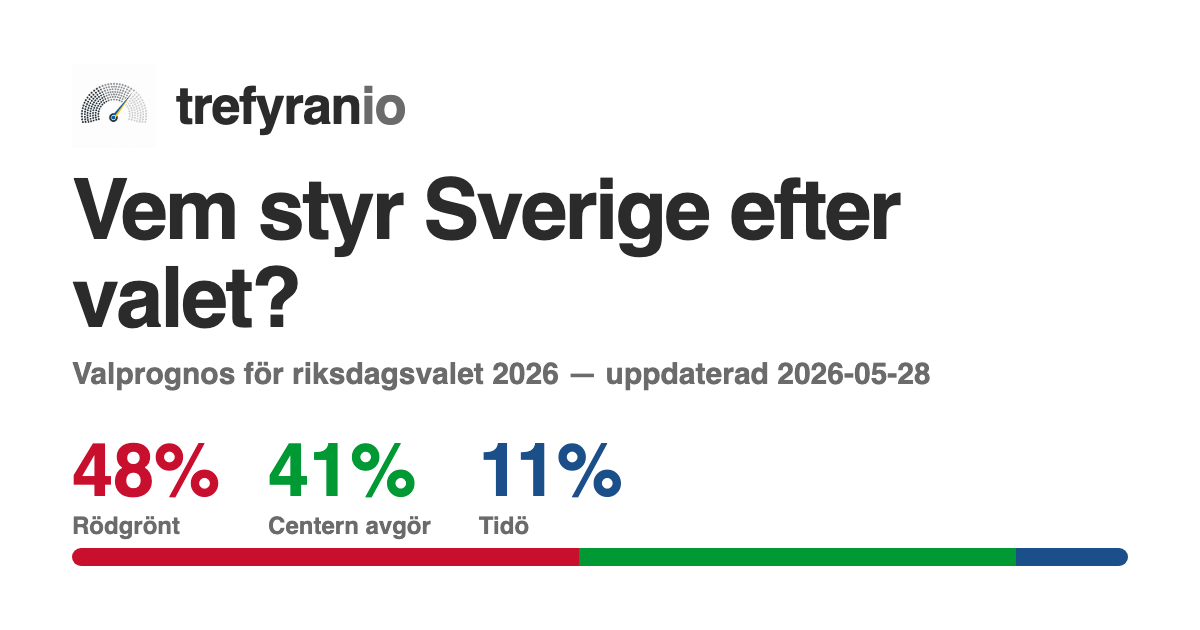
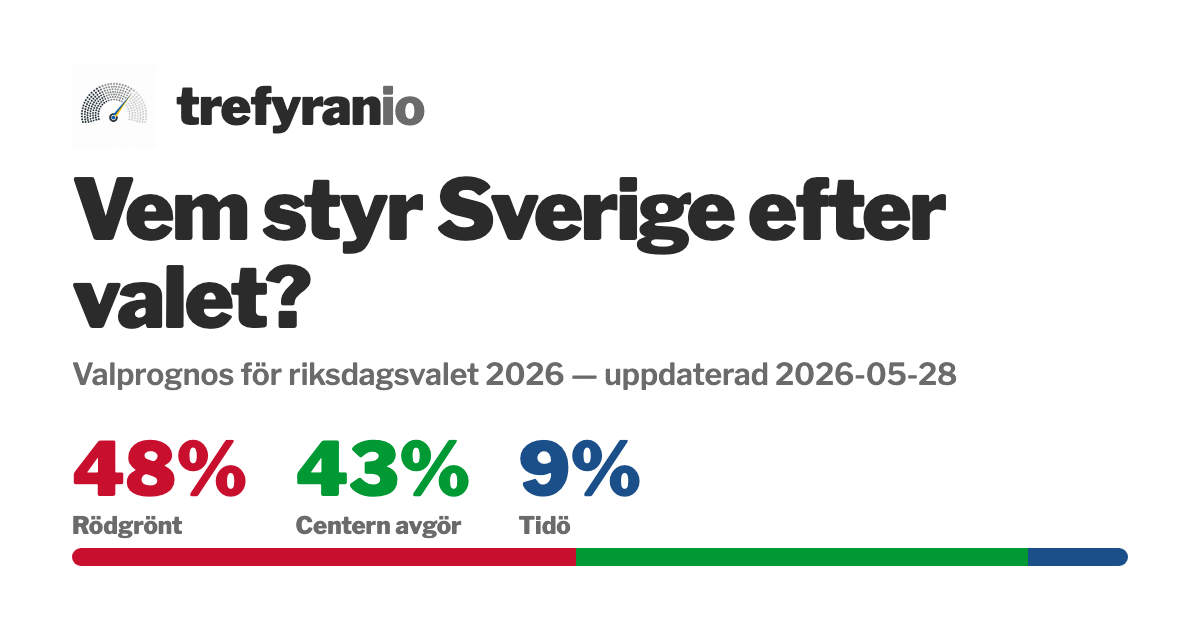
Phase 3: 6-cycle A/B → keep 4-cycle sigma, estimate MISS_RHO from data (0.12)
Tested whether adding the two pre-2010 cycles (2002, 2006) improves calibration.
backtest.py gains EARLY_YEARS, a year-parameterized calibration, calibrate_rho
(bloc-total coverage), and an `ab` command running three arms, each EVALUATED on
the 2010+ cycles (the regime the 2026 forecast lives in).

Findings:
- sigma: REJECT the 6-cycle curve. The pre-2010 cycles had bigger misses (thinner
  polling, SD's emergence), inflating sigma (floor 1.55->1.85pp, sigma(14)
  1.80->1.95pp) and OVER-covering the 2010+ regime (91% vs the 85% target). A
  regime mismatch — so sigma stays calibrated on the current party system (4-cycle).
- MISS_RHO: now ESTIMATED FROM DATA at 0.12 (was an assumed 0.2). iid under-covers
  bloc totals (75-83%); rho≈0.12 reaches 85%, consistent across the 4- and 6-cycle
  backtests. Live effect: P(Tido maj) 11%->9% (less bloc co-movement → thinner
  right-bloc tail); per-party marginals unchanged (rho moves only the joint).
- FP=L and SD-as-own-category turned out already handled in the data spine, so no
  special pre-2010 munging was needed.

Re-simulated + deployed (no refit — rho applies at projection time). README
"Uncertainty model" + Phase-5 roadmap document the A/B and the regime-mismatch call.

diff --git a/src/trefyranio/backtest.py b/src/trefyranio/backtest.py
@@ -51,12 +51,17 @@ from trefyranio.model import (
 )
 
 BACKTEST_YEARS = [2010, 2014, 2018, 2022]   # current party system, dense polling
+EARLY_YEARS = [2002, 2006]                  # pre-SD-in-riksdag; Phase-3 A/B only
+ALL_YEARS = EARLY_YEARS + BACKTEST_YEARS
 HORIZONS = [0, 14]                          # election-eve and the live ~14w gap
 BT_DIR = PROCESSED_DIR / "backtests"
 N_PARTIES = 8                   # the eight Riksdag parties (exclude Övr)
 Z80 = 1.2816                    # 10–90% half-width in sd units
 H_FAR = 14                      # live-forecast horizon (weeks from last poll)
 COVERAGE_TARGET = 0.85          # mildly conservative interval coverage
+# Blocs for the within-bloc miss-correlation estimate (mirror model._MISS_GROUP
+# and simulate's blocs). Only the multi-party blocs identify rho.
+_RHO_BLOCS = {"RIGHT": ["M", "SD", "KD", "L"], "LEFT": ["S", "V", "MP"]}
 
 
 def actual_shares(results: pd.DataFrame, year: int) -> np.ndarray:
@@ -69,13 +74,14 @@ def _path(year: int, H: int):
     return BT_DIR / f"conv_{year}_h{H}.npz"
 
 
-def fit_all(warmup: int = 500, samples: int = 500, force: bool = False) -> None:
+def fit_all(warmup: int = 500, samples: int = 500, force: bool = False,
+            years: list[int] = BACKTEST_YEARS) -> None:
     """Refit each cycle at each horizon with the converged model; cache to disk.
     Skips files that already exist unless ``force``."""
     polls = pd.read_parquet(PROCESSED_DIR / "polls.parquet")
     results = pd.read_parquet(PROCESSED_DIR / "results_national.parquet")
     BT_DIR.mkdir(parents=True, exist_ok=True)
-    for year in BACKTEST_YEARS:
+    for year in years:
         cycle = cycle_for(year)
         for H in HORIZONS:
             out = _path(year, H)
@@ -126,11 +132,12 @@ def _project(d, H: int, sigma: float, floor_pq: float, rho: float):
 
 
 def _coverage(H: int, sigma: float, floor_pq: float, rho: float,
+              years: list[int] = BACKTEST_YEARS,
               parties=range(N_PARTIES), lo_hi=(10, 90)) -> float:
     """Pooled 80%-interval coverage of the projected shares vs actual, over the
     given parties × cycles at horizon H."""
     inside = total = 0
-    for year in BACKTEST_YEARS:
+    for year in years:
         d = _load(year, H)
         sh = _project(d, H, sigma, floor_pq, rho)
         lo, hi = np.percentile(sh, lo_hi, axis=0)
@@ -140,20 +147,49 @@ def _coverage(H: int, sigma: float, floor_pq: float, rho: float,
     return inside / total if total else float("nan")
 
 
-def calibrate_forward(rho: float = MISS_RHO, floor_pq: float = FWD_FLOOR_PQ) -> dict:
+def calibrate_forward(years: list[int] = BACKTEST_YEARS,
+                      rho: float = MISS_RHO, floor_pq: float = FWD_FLOOR_PQ) -> dict:
     """Find the sigma(H) curve whose forward projection reaches the coverage
     target at H=0 and H=14, pooled over the 8 Riksdag parties."""
     grid = np.linspace(0.005, 0.06, 111)
 
     def smallest(H: int) -> float:
         for s in grid:
-            if _coverage(H, s, floor_pq, rho) >= COVERAGE_TARGET:
+            if _coverage(H, s, floor_pq, rho, years) >= COVERAGE_TARGET:
                 return float(s)
         return float(grid[-1])
 
     floor = smallest(0)
     s14 = max(smallest(H_FAR), floor)             # monotone in horizon
     return {"floor": floor, "s14": s14, "slope": (s14 ** 2 - floor ** 2) / H_FAR}
+
+
+def calibrate_rho(years: list[int] = BACKTEST_YEARS, H: int = H_FAR,
+                  floor_pq: float = FWD_FLOOR_PQ) -> dict:
+    """Estimate the within-bloc miss correlation from BLOC-TOTAL coverage. With
+    iid misses the bloc-total interval is too narrow; rho widens it. Smallest rho
+    whose projected bloc-total 80% interval covers the realized bloc totals at the
+    target, pooled over the multi-party blocs (RIGHT, LEFT) × cycles."""
+    bloc_idx = {b: [PARTY_ORDER.index(p) for p in ps] for b, ps in _RHO_BLOCS.items()}
+    sigma = miss_sigma_for_horizon(H)
+
+    def bloc_coverage(rho: float) -> float:
+        inside = total = 0
+        for year in years:
+            d = _load(year, H)
+            sh = _project(d, H, sigma, floor_pq, rho)
+            for idx in bloc_idx.values():
+                lo, hi = np.percentile(sh[:, idx].sum(1), [10, 90])
+                act = float(np.asarray(d["actual"])[idx].sum())
+                total += 1
+                inside += int(lo <= act <= hi)
+        return inside / total if total else float("nan")
+
+    grid = np.linspace(0.0, 0.8, 33)
+    covs = [(float(r), bloc_coverage(float(r))) for r in grid]
+    reached = [r for r, c in covs if c >= COVERAGE_TARGET]
+    return {"rho": reached[0] if reached else float(grid[-1]),
+            "iid_coverage": bloc_coverage(0.0), "curve": covs}
 
 
 def _near_threshold_parties(d, lo=0.03, hi=0.08):
@@ -231,12 +267,40 @@ def analyze() -> None:
         print(f"  {year}: MAE {mae:.2f}pp")
 
 
+def ab() -> None:
+    """Phase-3 A/B: does adding 2002 & 2006 (pre-SD-in-riksdag) change the
+    calibration? Three arms. Every arm is EVALUATED on the 2010+ cycles (the
+    regime the 2026 forecast lives in) so the comparison is on the relevant
+    population, not the training set."""
+    arms = {
+        "(i) 4-cycle [2010+]":        {"sigma_years": BACKTEST_YEARS, "rho_years": BACKTEST_YEARS},
+        "(ii) 6-cycle [all]":         {"sigma_years": ALL_YEARS,      "rho_years": ALL_YEARS},
+        "(iii) 6-cycle sigma, rho 2010+": {"sigma_years": ALL_YEARS,  "rho_years": BACKTEST_YEARS},
+    }
+    print("=== Phase-3 A/B: 2002/2006 regime-mismatch test ===")
+    print("    calibrate on the arm's cycles; EVALUATE coverage on 2010+ (the 2026 regime)\n")
+    for name, a in arms.items():
+        s = calibrate_forward(a["sigma_years"])
+        r = calibrate_rho(a["rho_years"])
+        # Evaluate THIS arm's constants on the 2010+ cycles.
+        cov0 = _coverage(0, s["floor"], FWD_FLOOR_PQ, r["rho"], BACKTEST_YEARS)
+        cov14 = _coverage(H_FAR, s["s14"], FWD_FLOOR_PQ, r["rho"], BACKTEST_YEARS)
+        print(f"{name}")
+        print(f"    floor {s['floor']*100:.2f}pp  sigma(14) {s['s14']*100:.2f}pp  "
+              f"rho {r['rho']:.2f} (iid bloc-cov {r['iid_coverage']*100:.0f}%)")
+        print(f"    → 2010+ coverage: H=0 {cov0*100:.0f}%  H=14 {cov14*100:.0f}%\n")
+
+
 def main() -> None:
     cmd = sys.argv[1] if len(sys.argv) > 1 else "all"
     if cmd in ("fit", "all"):
         fit_all(force="--force" in sys.argv)
+    if cmd == "fit-early":
+        fit_all(force="--force" in sys.argv, years=EARLY_YEARS)
     if cmd in ("analyze", "all"):
         analyze()
+    if cmd == "ab":
+        ab()
 
 
 if __name__ == "__main__":

diff --git a/src/trefyranio/model.py b/src/trefyranio/model.py
@@ -118,10 +118,12 @@ FWD_FLOOR_PQ = 0.0384           # = p(1-p) at p=4%; parties below 4% damped
 # variance — and the headline government probabilities are bloc arithmetic.
 # Factor model on the logit innovation: each party's z = sqrt(rho)·(shared bloc
 # factor) + sqrt(1-rho)·(idiosyncratic), so the within-bloc correlation is rho
-# while the per-party marginal is preserved. rho is calibratable from the bloc-
-# total backtest errors (Phase 3); 0.2 is the current estimate. Groups mirror
-# simulate's blocs. (rho=0.2 lifts P(Tidö maj) ~11%→14% vs iid.)
-MISS_RHO = 0.2
+# while the per-party marginal is preserved. ESTIMATED FROM DATA (Phase 3) by
+# bloc-total coverage: iid (rho=0) under-covers bloc totals (75–83%), and rho≈0.12
+# is the smallest value reaching 85% — consistent across the 4- and 6-cycle
+# backtests. Modest and a bit noisy (~8 bloc-cycle points), but data-grounded
+# rather than assumed. Groups mirror simulate's blocs.
+MISS_RHO = 0.12
 _MISS_GROUP = {"S": 1, "M": 0, "SD": 0, "C": 2, "V": 1, "KD": 0, "MP": 1, "L": 0, "Övr": 3}
 MISS_GROUP_IDX = np.array([_MISS_GROUP[p] for p in PARTY_ORDER])
 

diff --git a/README.md b/README.md
@@ -77,12 +77,18 @@ accumulating over the H-week gap, supplies the realized poll-miss spread.
   ~uniform in pp across party sizes). Coverage-calibrated across **four cycles
   (2010, 2014, 2018, 2022)** to 85% of the 80% interval: `σ(H) = √(1.55² + 0.060·H) pp`
   → ~1.55pp at H=0, ~1.80pp at H=14 (the *total* election-day spread; `MISS_SIGMA_*`).
+  A 6-cycle test (adding 2002/2006) was **rejected**: those pre-2010 cycles had
+  bigger misses (thinner polling, SD's emergence), and their wider σ *over-covers*
+  the 2010+ regime the 2026 forecast lives in (91% vs the 85% target) — a regime
+  mismatch, so we calibrate σ on the current party system only.
 - **Hybrid per-party scaling** — in logit space share spread is `p(1−p)·σ_logit`,
   so we set `σ_logit = σ_share / (p(1−p))` (floored, `FWD_FLOOR_PQ`) to realize a
   ~uniform-pp band while protecting the 4%-threshold survival probabilities.
 - **Correlated within blocs** — a factor model on the forward innovation gives
-  within-bloc co-movement (`MISS_RHO`≈0.2) so bloc-total / government-formation
-  variance isn't understated. ρ is calibratable from the bloc-total backtest errors.
+  within-bloc co-movement so bloc-total / government-formation variance isn't
+  understated. `MISS_RHO`=0.12 is **estimated from data** (bloc-total coverage:
+  iid under-covers at 75–83%, ρ≈0.12 reaches 85%, consistent across the 4- and
+  6-cycle backtests) rather than assumed.
 
 ### Convergence (fixed)
 
@@ -189,17 +195,18 @@ enrichments requiring outreach to GU / pollsters — not blockers for v1.
       `seat_draws.npz`. Conditionals guarded against tiny-subsample noise.
 - [x] **Phase 5** — backtest & calibration (`backtest.py`). Refits the converged
       model across **four cycles (2010, 2014, 2018, 2022)** from polls-only,
-      horizon-matched at H=0 and H=14. **Calibrated `MISS_SIGMA`** (share-space,
-      coverage-cal to 85%, σ(H) curve ~1.50→1.65pp). Point MAE 0.6–1.5pp across
-      cycles. The miss belongs in share space, not ALR; within-bloc correlation as
-      a factor (`MISS_RHO`≈0.2). Damped recent-momentum tested on all 4 cycles and
-      rejected (noise-level, overfit argmax) → drift-only. ⚠️ The earlier
-      "momentum thesis confirmed (velocity)" result was measured on the
+      horizon-matched at H=0 and H=14, and calibrates the **model-carried forward
+      projection** (coverage-cal to 85%, σ(H) ~1.55→1.80pp; the induced share-space
+      spread is ~uniform-pp). Point MAE 0.6–1.5pp. Damped recent-momentum tested on
+      all 4 cycles and rejected (noise-level, overfit argmax) → drift-only. ⚠️ The
+      earlier "momentum thesis confirmed (velocity)" result was on the
       **non-converged** model and is superseded.
-      - [ ] **6-cycle backtest (2002, 2006)** — more power to pin `MISS_SIGMA`
-            and estimate `MISS_RHO` from data, with pre-2010 caveats (SD not in
-            riksdag, FP=L). Would also let a momentum term be re-tested with more
-            statistical power.
+      - [x] **6-cycle A/B (2002, 2006)** — tested adding the two pre-2010 cycles.
+            **Rejected for σ**: their bigger misses over-cover the 2010+ regime
+            (91% vs 85%) — a regime mismatch, so σ stays 4-cycle. **`MISS_RHO`
+            estimated from data** at 0.12 (consistent 4- vs 6-cycle), replacing the
+            assumed 0.2. (FP=L and SD-as-own-category are already handled in the
+            data spine, so no special pre-2010 munging was needed.)
 - [~] **Phase 6** — Astro webapp (Swedish, prime-era 538 look) + Cloudflare
       Pages + local recompute/publish.
   - [x] `parties.py` (verified palette), `web_export.py` (→ `web/src/data/*.json`: